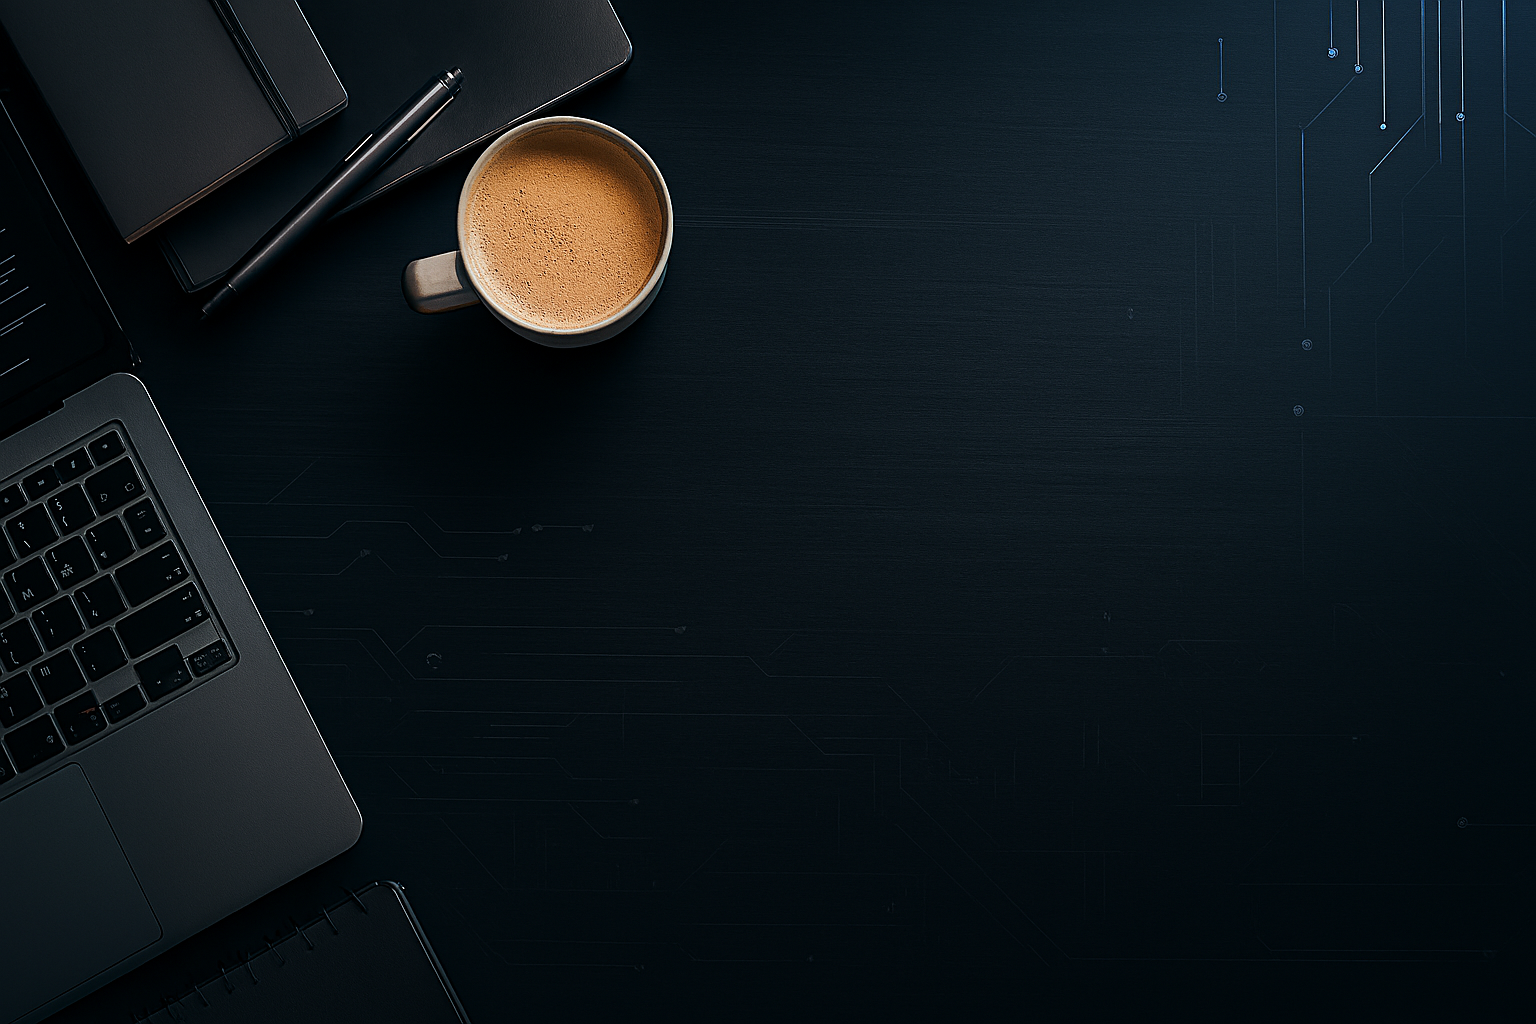
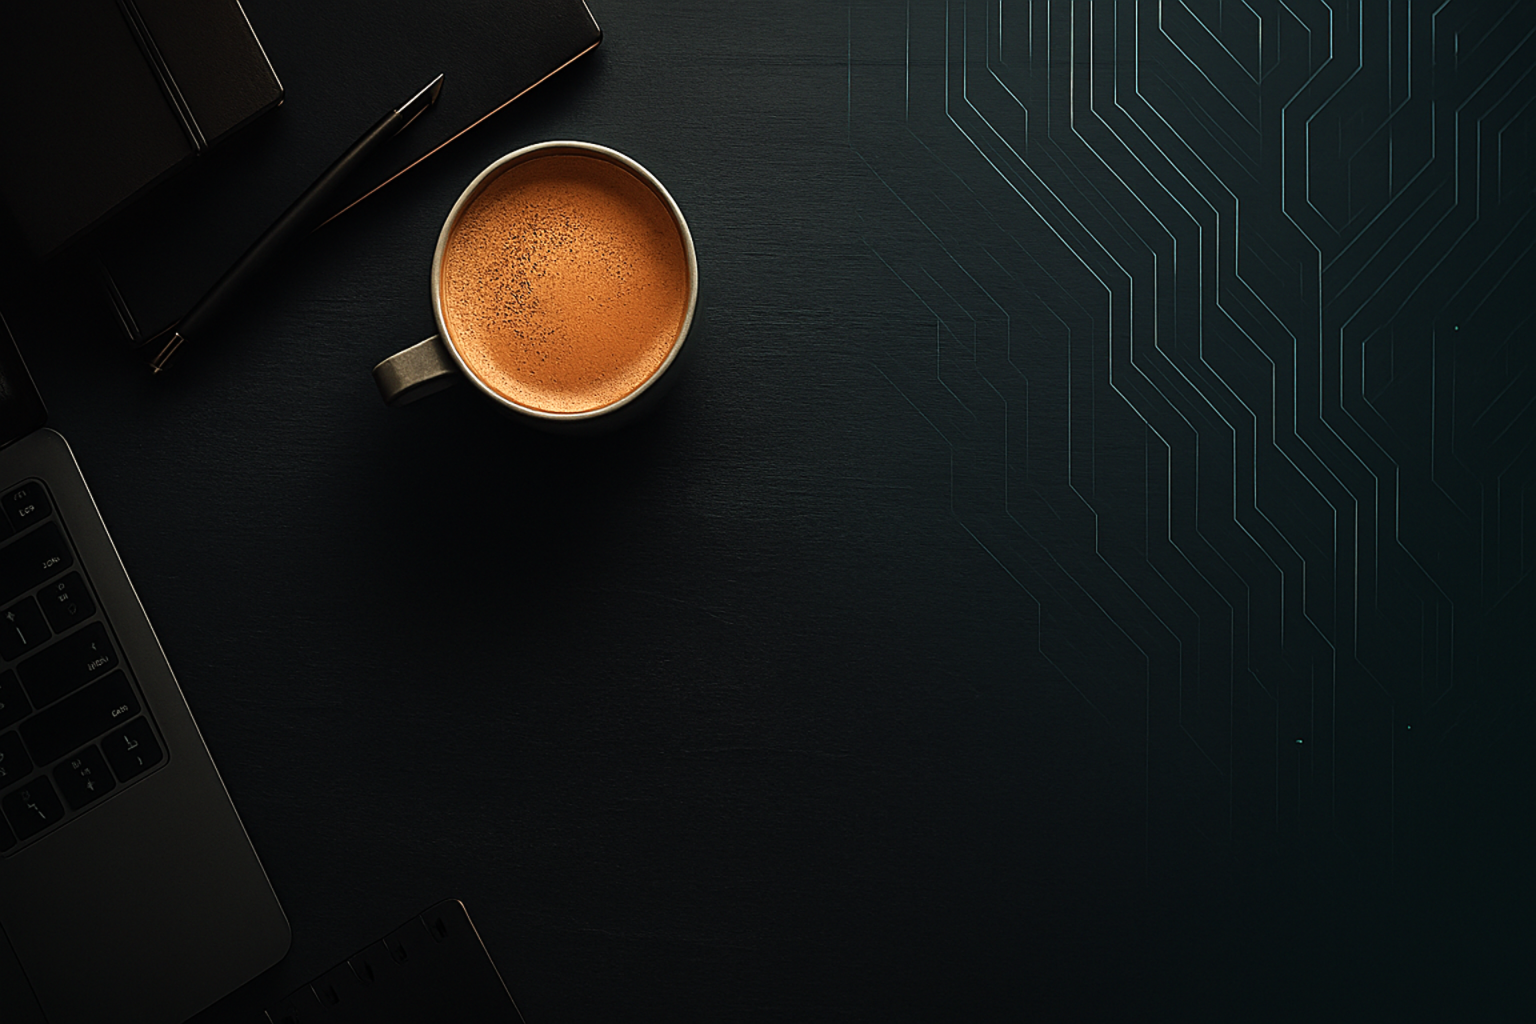
chore(images): add new profile background images and update references in the presentation section

diff --git a/src/app/page.tsx b/src/app/page.tsx
@@ -24,7 +24,7 @@ export default function Home() {
       {/* Photo by Lukas: https://www.pexels.com/photo/white-apple-keyboard-near-white-cup-917463/ */}
       <HomeSection
         id="presentation"
-        className="bg-[url('/images/profile-bg.png')] bg-cover bg-top lg:bg-center"
+        className="bg-[url('/images/profile-bg-2-inverted.png')] bg-cover bg-top lg:bg-center"
       >
         <Presentation />
       </HomeSection>
